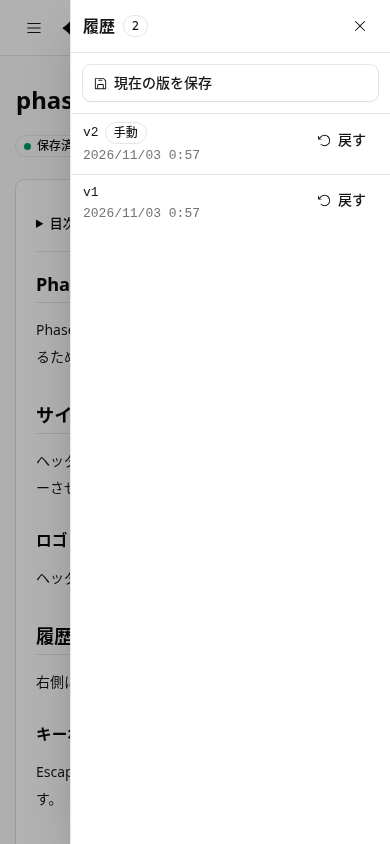
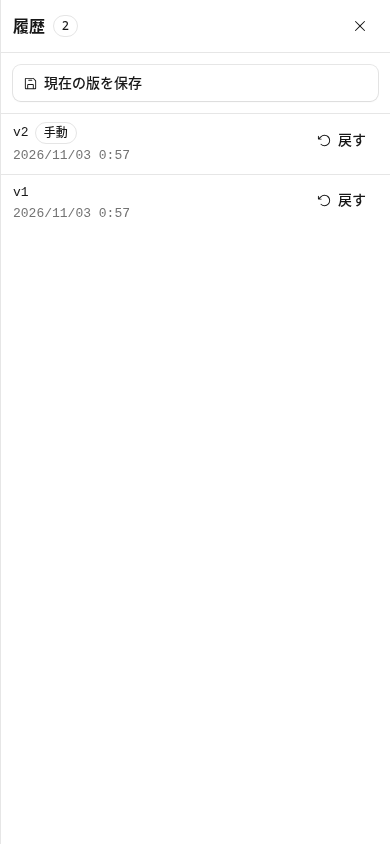
fix: polish toc tab, mobile history sheet, and reduced motion

Changed region(s): [[0.0, 0.0, 0.5538, 1.0], [0.2154, 0.0, 0.3077, 0.0616], [0.4308, 0.2464, 0.4923, 0.2773]]

diff --git a/src/components/MarkdownView.tsx b/src/components/MarkdownView.tsx
@@ -24,12 +24,6 @@ import { sameToc, type TocItem } from '../markdown/toc';
 import { createWikiResolver, remarkWikiLinks, type LinkTarget } from '../markdown/wiki';
 import { validatePagePath } from '../shared/pagePath';
 
-export type SidePanelInfo = {
-  available: boolean;
-  hasToc: boolean;
-  hasBacklinks: boolean;
-};
-
 type Props = {
   markdown: string;
   pages: PageNavigation[];
@@ -39,7 +33,6 @@ type Props = {
   sidePanel?: boolean;
   sidePanelOpen: boolean;
   onSidePanelOpenChange?: (open: boolean) => void;
-  onSidePanelInfoChange?: (info: SidePanelInfo) => void;
 };
 
 type HastNode = {
@@ -68,7 +61,6 @@ export function MarkdownView({
   sidePanel = true,
   sidePanelOpen,
   onSidePanelOpenChange,
-  onSidePanelInfoChange,
 }: Props) {
   const articleRef = useRef<HTMLElement>(null);
   const tocTabRef = useRef<HTMLButtonElement>(null);
@@ -205,14 +197,6 @@ export function MarkdownView({
     requestAnimationFrame(() => tocTabRef.current?.focus());
   }
 
-  useEffect(() => {
-    onSidePanelInfoChange?.({
-      available: hasSidePanelContent,
-      hasToc,
-      hasBacklinks: hasBacklinks || backlinksError,
-    });
-  }, [hasSidePanelContent, hasToc, hasBacklinks, backlinksError, onSidePanelInfoChange]);
-
   return (
     <div className="relative min-h-[60svh] px-5 py-7 sm:px-8 sm:py-9 lg:min-h-[calc(100vh-18rem)]">
       {panelAvailable && !sidePanelOpen ? (
@@ -224,7 +208,7 @@ export function MarkdownView({
           aria-expanded={false}
           aria-controls="page-side-panel"
           title={`${panelLabel}を開く`}
-          className="absolute top-28 left-0 z-10 hidden w-6 items-center justify-center rounded-r-md border border-l-0 border-kumo-line bg-kumo-base py-3 text-[11px] font-medium text-kumo-subtle hover:bg-kumo-tint hover:text-kumo-default focus-visible:ring-2 focus-visible:ring-kumo-brand focus-visible:outline-none xl:flex"
+          className="absolute top-28 left-0 z-10 hidden h-24 w-8 -translate-x-px flex-col items-center justify-center rounded-r-lg border border-l-0 border-kumo-line bg-kumo-tint text-xs font-semibold text-kumo-strong shadow-sm hover:bg-kumo-base hover:text-kumo-default focus-visible:ring-2 focus-visible:ring-kumo-brand focus-visible:outline-none xl:flex"
           style={{ writingMode: 'vertical-rl' }}
         >
           {panelLabel}

diff --git a/src/components/Editor.tsx b/src/components/Editor.tsx
@@ -617,7 +617,7 @@ export function Editor({ page, user, revisions, pages, linkTargets }: Props) {
             tabIndex={-1}
             className={
               historyModal
-                ? 'fixed inset-y-0 right-0 z-50 flex w-[min(20rem,85vw)] flex-col border-l border-kumo-line bg-kumo-base shadow-2xl focus:outline-none'
+                ? 'fixed inset-y-0 right-0 z-50 flex w-full flex-col border-l border-kumo-line bg-kumo-base shadow-2xl focus:outline-none'
                 : 'fixed top-36 right-0 bottom-0 z-20 hidden w-[280px] flex-col border-l border-kumo-line bg-kumo-base shadow-lg focus:outline-none xl:flex'
             }
           >

diff --git a/src/styles.css b/src/styles.css
@@ -52,6 +52,13 @@ body {
   }
 }
 
+@media (prefers-reduced-motion: reduce) {
+  .zeee-app-shell [data-sidebar='content-container'],
+  #page-history-panel {
+    transition: none;
+  }
+}
+
 .cm-editor {
   height: 100%;
   background: transparent;
